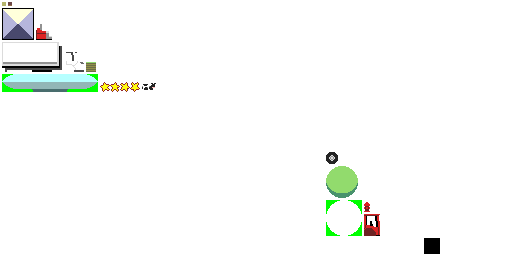
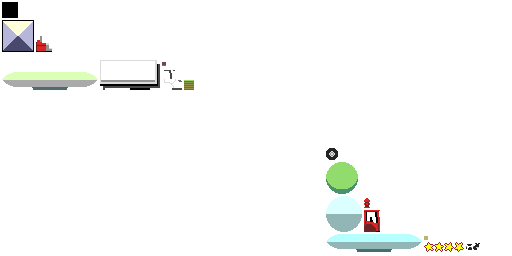
basic abduction mechanic added

diff --git a/ufo/core/src/com/dvdfu/ufo/screens/GroundScreen.java b/ufo/core/src/com/dvdfu/ufo/screens/GroundScreen.java
@@ -10,9 +10,11 @@ import com.badlogic.gdx.math.Vector2;
 import com.badlogic.gdx.physics.box2d.Box2DDebugRenderer;
 import com.badlogic.gdx.physics.box2d.World;
 import com.dvdfu.ufo.Const;
+import com.dvdfu.ufo.Contacter;
 import com.dvdfu.ufo.MainGame;
 import com.dvdfu.ufo.Terrain;
 import com.dvdfu.ufo.components.GUIComponent;
+import com.dvdfu.ufo.components.ShaderComponent;
 import com.dvdfu.ufo.objects.Cow;
 import com.dvdfu.ufo.objects.GameObj;
 import com.dvdfu.ufo.objects.Tree;
@@ -29,6 +31,7 @@ public class GroundScreen extends AbstractScreen {
 	private ArrayList<GameObj> objects;
 	private UFO player;
 	private GUIComponent sprite;
+	private ShaderComponent shader;
 
 	public GroundScreen(MainGame game) {
 		super(game);
@@ -39,13 +42,16 @@ public class GroundScreen extends AbstractScreen {
 		debugRenderer.setDrawJoints(false);
 		debugRenderer.setDrawVelocities(true);
 		world = new World(new Vector2(0, -50), true);
+		world.setContactListener(new Contacter());
 		floor = new Terrain(world);
 		player = new UFO(world);
 		objects = new ArrayList<GameObj>();
 		player.setPosition(30, floor.getHeight(30) + 10);
 		sprite = new GUIComponent(Const.atlas.findRegion("default"));
 		sprite.setCamera();
-
+		shader = new ShaderComponent("shaders/passthrough.vsh", "shaders/passthrough.fsh");
+		batch.setShader(shader);
+		
 		for (int i = 0; i < 30; i++) {
 			Tree t = new Tree(world);
 			t.setPosition((i + 2) * 10, floor.getHeight((i + 2) * 10));
@@ -64,6 +70,7 @@ public class GroundScreen extends AbstractScreen {
 	}
 
 	public void render(float delta) {
+		
 		camera.position.set(player.getBody().getWorldCenter().x * 10, (player.getBody().getWorldCenter().y - 5) * 10, 0);
 		camera.update();
 		world.step(Gdx.graphics.getDeltaTime(), 6, 2);
@@ -83,18 +90,26 @@ public class GroundScreen extends AbstractScreen {
 						b.getBody().setLinearVelocity(b.getBody().getLinearVelocity().scl(0.5f));
 						// b.getBody().setLinearVelocity(0, 0);
 						b.getBody().applyForce(new Vector2(diff.x * 40, diff.y), b.getBody().getWorldCenter(), true);
-					} else if (distance < 20) {
+					} else if (distance < 8) {
 						b.getBody().applyForce(new Vector2(diff.x / 5, 0), b.getBody().getWorldCenter(), true);
 					}
 				}
 			}
 		}
+		
+		for (int i = 0; i < objects.size(); i++) {
+			if (objects.get(i).getBody().getUserData() != null && objects.get(i).getBody().getUserData().equals("dead")) {
+				world.destroyBody(objects.get(i).getBody());
+				objects.remove(i);
+				i--;
+			}
+		}
 
 		if (Gdx.input.isKeyPressed(Input.Keys.UP)) {
-			camera.zoom /= 1.05f;
+			camera.zoom /= 1.01f;
 		}
 		if (Gdx.input.isKeyPressed(Input.Keys.DOWN)) {
-			camera.zoom *= 1.05f;
+			camera.zoom *= 1.01f;
 		}
 
 		batch.setProjectionMatrix(camera.combined);
@@ -107,8 +122,8 @@ public class GroundScreen extends AbstractScreen {
 		// batch.flush();
 		// sprite.draw(batch, 0, 0);
 		batch.end();
-		// camera.combined.scale(10, 10, 0);
-		// debugRenderer.render(world, camera.combined);
+//		 camera.combined.scale(10, 10, 0);
+//		 debugRenderer.render(world, camera.combined);
 	}
 
 	public void resize(int width, int height) {}

diff --git a/ufo/core/src/com/dvdfu/ufo/objects/UFO.java b/ufo/core/src/com/dvdfu/ufo/objects/UFO.java
@@ -17,7 +17,7 @@ import com.badlogic.gdx.utils.Pool;
 import com.dvdfu.ufo.Const;
 import com.dvdfu.ufo.components.ShaderComponent;
 import com.dvdfu.ufo.components.SpriteComponent;
-import com.dvdfu.ufo.objects.particles.Sparkle;
+import com.dvdfu.ufo.objects.particles.UFOTrail;
 
 public class UFO extends GameObj {
 	private SpriteComponent bodySpr;
@@ -25,8 +25,8 @@ public class UFO extends GameObj {
 	private SpriteComponent raySprite;
 	private ShaderComponent rayShader;
 	private ShaderComponent defShader;
-	private Pool<Sparkle> particlePool;
-	private final Array<Sparkle> particles = new Array<Sparkle>();
+	private Pool<UFOTrail> particlePool;
+	private final Array<UFOTrail> particles = new Array<UFOTrail>();
 	private final float moveSpeed = 2000;
 	private float groundHeight;
 
@@ -40,9 +40,9 @@ public class UFO extends GameObj {
 		rayShader = new ShaderComponent("shaders/ray.vsh", "shaders/ray.fsh");
 		defShader = new ShaderComponent("shaders/passthrough.vsh", "shaders/passthrough.fsh");
 
-		particlePool = new Pool<Sparkle>() {
-			protected Sparkle newObject() {
-				return new Sparkle();
+		particlePool = new Pool<UFOTrail>() {
+			protected UFOTrail newObject() {
+				return new UFOTrail();
 			}
 		};
 	}
@@ -66,17 +66,17 @@ public class UFO extends GameObj {
 	}
 
 	public void draw(SpriteBatch batch) {
-		Sparkle s = particlePool.obtain();
+		UFOTrail s = particlePool.obtain();
 		// s.setPosition(body.getPosition().x * 10 + MathUtils.random(-30, 30),
 		// body.getPosition().y * 10 + MathUtils.random(-6, 6));
-		s.setPosition(body.getPosition().x * 10, groundHeight * 10);
+		s.setPosition(body.getPosition().x * 10, body.getPosition().y * 10);
 		particles.add(s);
-		Sparkle item;
+		UFOTrail item;
 		int len = particles.size;
 		for (int i = len; --i >= 0;) {
 			item = particles.get(i);
-			// item.update();
-			// item.draw(batch);
+//			item.update();
+//			item.draw(batch);
 			if (item.getDead()) {
 				particles.removeIndex(i);
 				particlePool.free(item);
@@ -124,6 +124,11 @@ public class UFO extends GameObj {
 		domeShape.setPosition(new Vector2(0, 0.9f));
 		ufoFix.shape = domeShape;
 		body.createFixture(ufoFix);
+		
+		ufoShape.setAsBox(1.5f, 0.2f, new Vector2(0, -1.2f), 0);
+		ufoFix.shape = ufoShape;
+		ufoFix.isSensor = true;
+		body.createFixture(ufoFix).setUserData("ray");
 
 		ufoShape.dispose();
 		domeShape.dispose();

diff --git a/ufo/core/src/com/dvdfu/ufo/objects/particles/UFOTrail.java b/ufo/core/src/com/dvdfu/ufo/objects/particles/UFOTrail.java
@@ -1,37 +1,31 @@
 package com.dvdfu.ufo.objects.particles;
 
 import com.badlogic.gdx.graphics.g2d.SpriteBatch;
-import com.badlogic.gdx.math.MathUtils;
 import com.dvdfu.ufo.Const;
 import com.dvdfu.ufo.components.ParticleComponent;
 
-public class Sparkle extends ParticleComponent {
-	private float vSpeed;
+public class UFOTrail extends ParticleComponent {
 	
-	public Sparkle() {
+	public UFOTrail() {
 		super();
 	}
 
 	public void init() {
-		sprite.setImage(Const.atlas.findRegion("sparkle"), 16);
-		sprite.setFrameRate(4);
+		sprite.setImage(Const.atlas.findRegion("trail"));
 	}
 
 	public void update() {
 		super.update();
-		position.y += vSpeed;
-		position.x += 4 * MathUtils.cos(timer / 2f);
 	}
 
 	public void draw(SpriteBatch batch) {
+		sprite.setAlpha(timer / 60f);
 		sprite.drawCentered(batch, position.x, position.y);
 	}
 
 	public void reset() {
 		super.reset();
-		vSpeed = 2 + MathUtils.random(2f);
-		timer = 30 + MathUtils.random(20);
-//		sprite.setFrame(0);
+		timer = 60;
 	}
 
 }

diff --git a/ufo/core/src/com/dvdfu/ufo/Contacter.java b/ufo/core/src/com/dvdfu/ufo/Contacter.java
@@ -1,0 +1,30 @@
+package com.dvdfu.ufo;
+
+import com.badlogic.gdx.physics.box2d.Contact;
+import com.badlogic.gdx.physics.box2d.ContactImpulse;
+import com.badlogic.gdx.physics.box2d.ContactListener;
+import com.badlogic.gdx.physics.box2d.Fixture;
+import com.badlogic.gdx.physics.box2d.Manifold;
+
+public class Contacter implements ContactListener {
+	
+	public void beginContact(Contact contact) {
+		Fixture fA = contact.getFixtureA();
+		Fixture fB = contact.getFixtureB();
+		if (fA.getUserData() != null && fA.getUserData().equals("ray")) {
+			fB.getBody().setUserData("dead");
+		} else if (fB.getUserData() != null && fB.getUserData().equals("ray")) {
+			fA.getBody().setUserData("dead");
+		}
+	}
+
+	public void endContact(Contact contact) {
+	}
+
+	public void preSolve(Contact contact, Manifold oldManifold) {
+	}
+
+	public void postSolve(Contact contact, ContactImpulse impulse) {
+	}
+
+}

diff --git a/ufo/desktop/src/com/dvdfu/ufo/desktop/DesktopLauncher.java b/ufo/desktop/src/com/dvdfu/ufo/desktop/DesktopLauncher.java
@@ -11,8 +11,8 @@ public class DesktopLauncher {
 		LwjglApplicationConfiguration config = new LwjglApplicationConfiguration();
 		config.width = Const.screenWidth;
 		config.height = Const.screenHeight;
-		TexturePacker.process("unpacked/", "/home/david/workspace/ufo/ufo/android/assets/img", "images");
-//		TexturePacker.process("unpacked/", "/home/david/dev/eclipse/ufo/ufo/android/assets/img", "images");
+//		TexturePacker.process("unpacked/", "/home/david/workspace/ufo/ufo/android/assets/img", "images");
+		TexturePacker.process("unpacked/", "/home/david/dev/eclipse/ufo/ufo/android/assets/img", "images");
 		new LwjglApplication(new MainGame(), config);
 	}
 }

diff --git a/ufo/core/src/com/dvdfu/ufo/MainGame.java b/ufo/core/src/com/dvdfu/ufo/MainGame.java
@@ -17,7 +17,7 @@ public class MainGame extends Game {
 		framerate = new FPSLogger();
 		screens = new Stack<AbstractScreen>();
 		enterScreen(new GroundScreen(this));
-		
+
 	}
 
 	public void enterScreen(AbstractScreen screen) {
@@ -50,10 +50,9 @@ public class MainGame extends Game {
 	}
 
 	public void render() {
-		framerate.log();
+		// framerate.log();
 		Gdx.gl.glClear(GL20.GL_COLOR_BUFFER_BIT);
 		Gdx.gl.glClearColor(0.7f, 0.9f, 1, 1);
-//		Gdx.gl.glClearColor(0, 0, 0, 1);
 		if (getScreen() != null) {
 			super.render();
 		}

diff --git a/ufo/core/src/com/dvdfu/ufo/Terrain.java b/ufo/core/src/com/dvdfu/ufo/Terrain.java
@@ -14,7 +14,7 @@ public class Terrain extends GameObj {
 	private SpriteComponent sprite;
 	private final int nodes = 40;
 	private final int res = 4;
-	private final float var = 2;
+	private final float var = 4;
 	private float[] nodeMap;
 	private float[] map;
 
